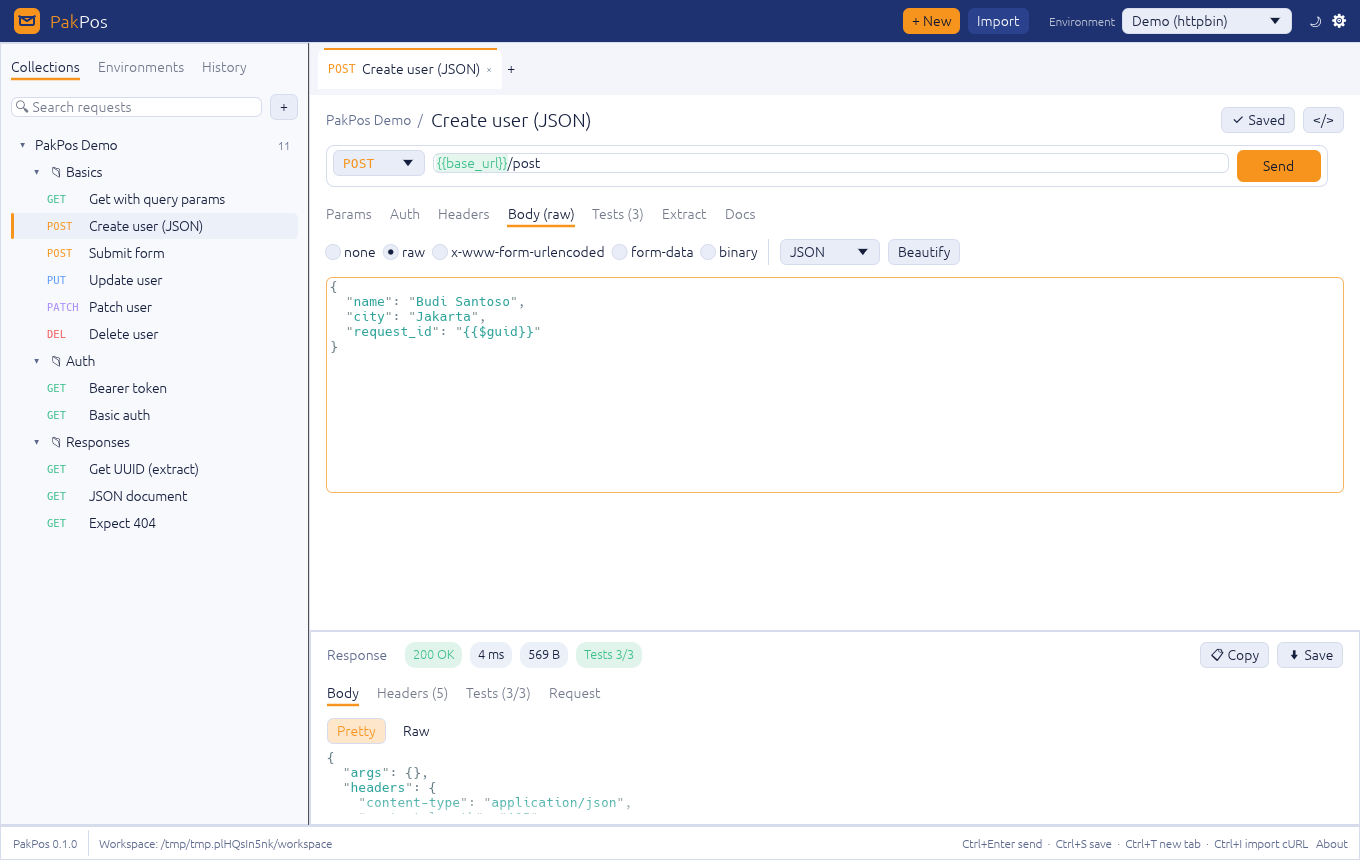
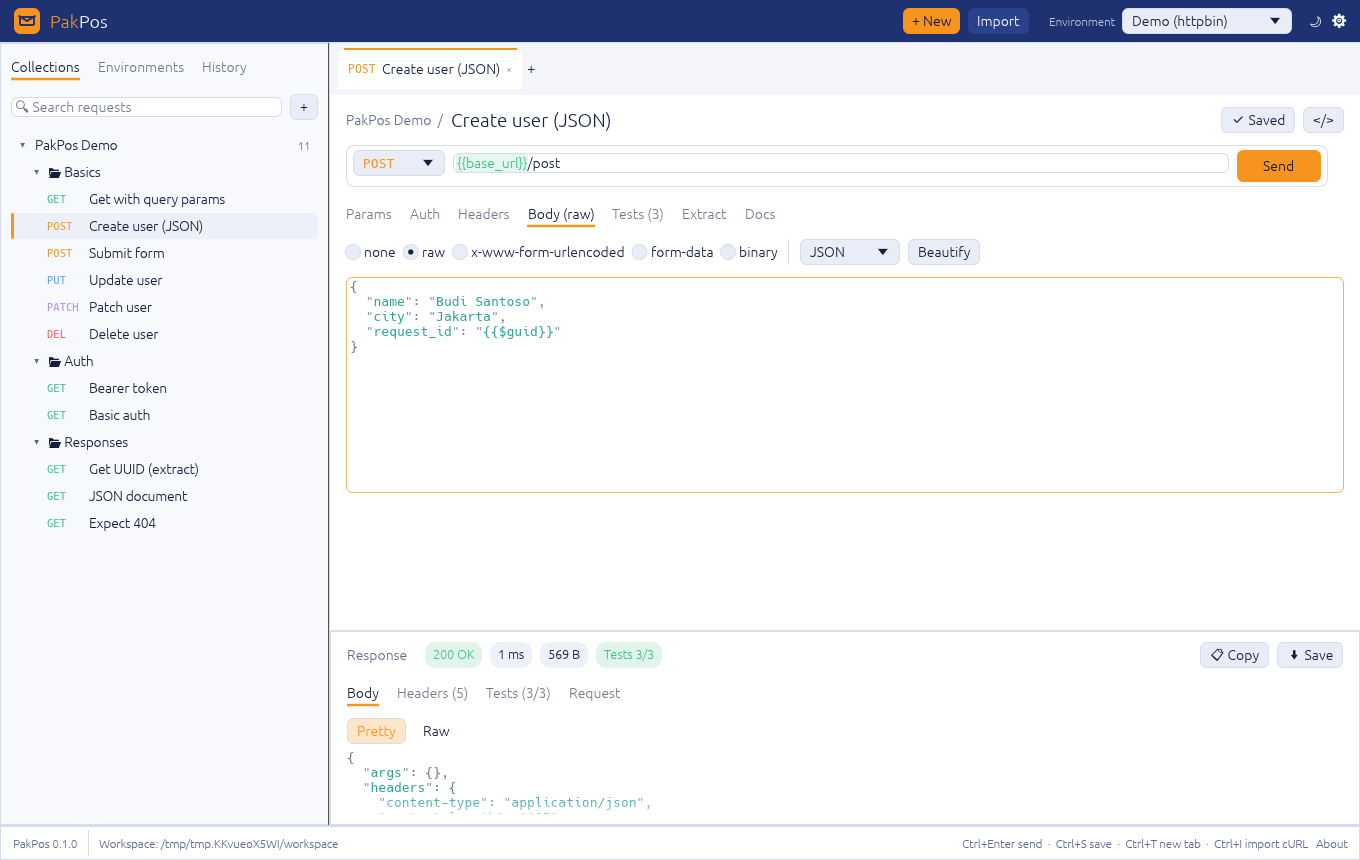
fix(app): truncate long sidebar labels; refresh screenshots and binary size

diff --git a/crates/pakpos-app/src/sidebar.rs b/crates/pakpos-app/src/sidebar.rs
@@ -43,18 +43,25 @@ fn tree_row(ui: &mut Ui, p: &Palette, s: RowStyle<'_>) -> egui::Response {
         );
         x += 42.0;
     }
-    let max_w = rect.right() - x - 8.0;
-    let galley = painter.layout(s.label.to_string(), FontId::proportional(13.5), p.text, max_w.max(10.0));
-    painter.galley(egui::pos2(x, cy - galley.size().y / 2.0), galley.clone(), p.text);
+    let mut right = rect.right() - 8.0;
     if let Some(suffix) = s.weak_suffix {
-        painter.text(
-            egui::pos2(rect.right() - 8.0, cy),
-            Align2::RIGHT_CENTER,
-            suffix,
-            FontId::proportional(11.0),
-            p.text_weak,
-        );
+        let g = painter.layout_no_wrap(suffix, FontId::proportional(11.0), p.text_weak);
+        right -= g.size().x;
+        painter.galley(egui::pos2(right, cy - g.size().y / 2.0), g, p.text_weak);
+        right -= 10.0;
     }
+    let mut job = egui::text::LayoutJob::single_section(
+        s.label.to_string(),
+        egui::TextFormat { font_id: FontId::proportional(13.5), color: p.text, ..Default::default() },
+    );
+    job.wrap = egui::text::TextWrapping {
+        max_width: (right - x).max(10.0),
+        max_rows: 1,
+        break_anywhere: true,
+        overflow_character: Some('…'),
+    };
+    let galley = ui.ctx().fonts_mut(|f| f.layout_job(job));
+    painter.galley(egui::pos2(x, cy - galley.size().y / 2.0), galley, p.text);
     if resp.hovered() {
         ui.ctx().set_cursor_icon(egui::CursorIcon::PointingHand);
     }

diff --git a/README.md b/README.md
@@ -29,7 +29,7 @@ that want an account, sync your collections to someone else's cloud and take a
 few seconds to start.
 
 PakPos goes back to the basics and tries to do them well. It's a native app
-(__BINARY_SIZE__, no Electron), it starts before you can blink, and everything
+(a single ~20 MB binary, no Electron), it starts before you can blink, and everything
 you make is a plain JSON file in a folder you choose. That last part matters
 more than it sounds: put the folder in your project's git repo and your whole
 team gets the same collections, with changes reviewed in pull requests like the

diff --git a/README.id.md b/README.id.md
@@ -23,7 +23,7 @@ minta akun, sync collection ke cloud orang lain, dan butuh beberapa detik cuma
 buat kebuka.
 
 PakPos balik ke dasar dan berusaha ngerjain itu dengan baik. Aplikasinya native
-(__BINARY_SIZE__, tanpa Electron), kebukanya cepat, dan semua yang kamu bikin
+(satu binary ~20 MB, tanpa Electron), kebukanya cepat, dan semua yang kamu bikin
 disimpan sebagai file JSON biasa di folder pilihan kamu. Bagian terakhir ini
 penting: taruh foldernya di repo git project kamu, dan satu tim langsung pakai
 collection yang sama, perubahan di-review lewat pull request seperti kode biasa.
